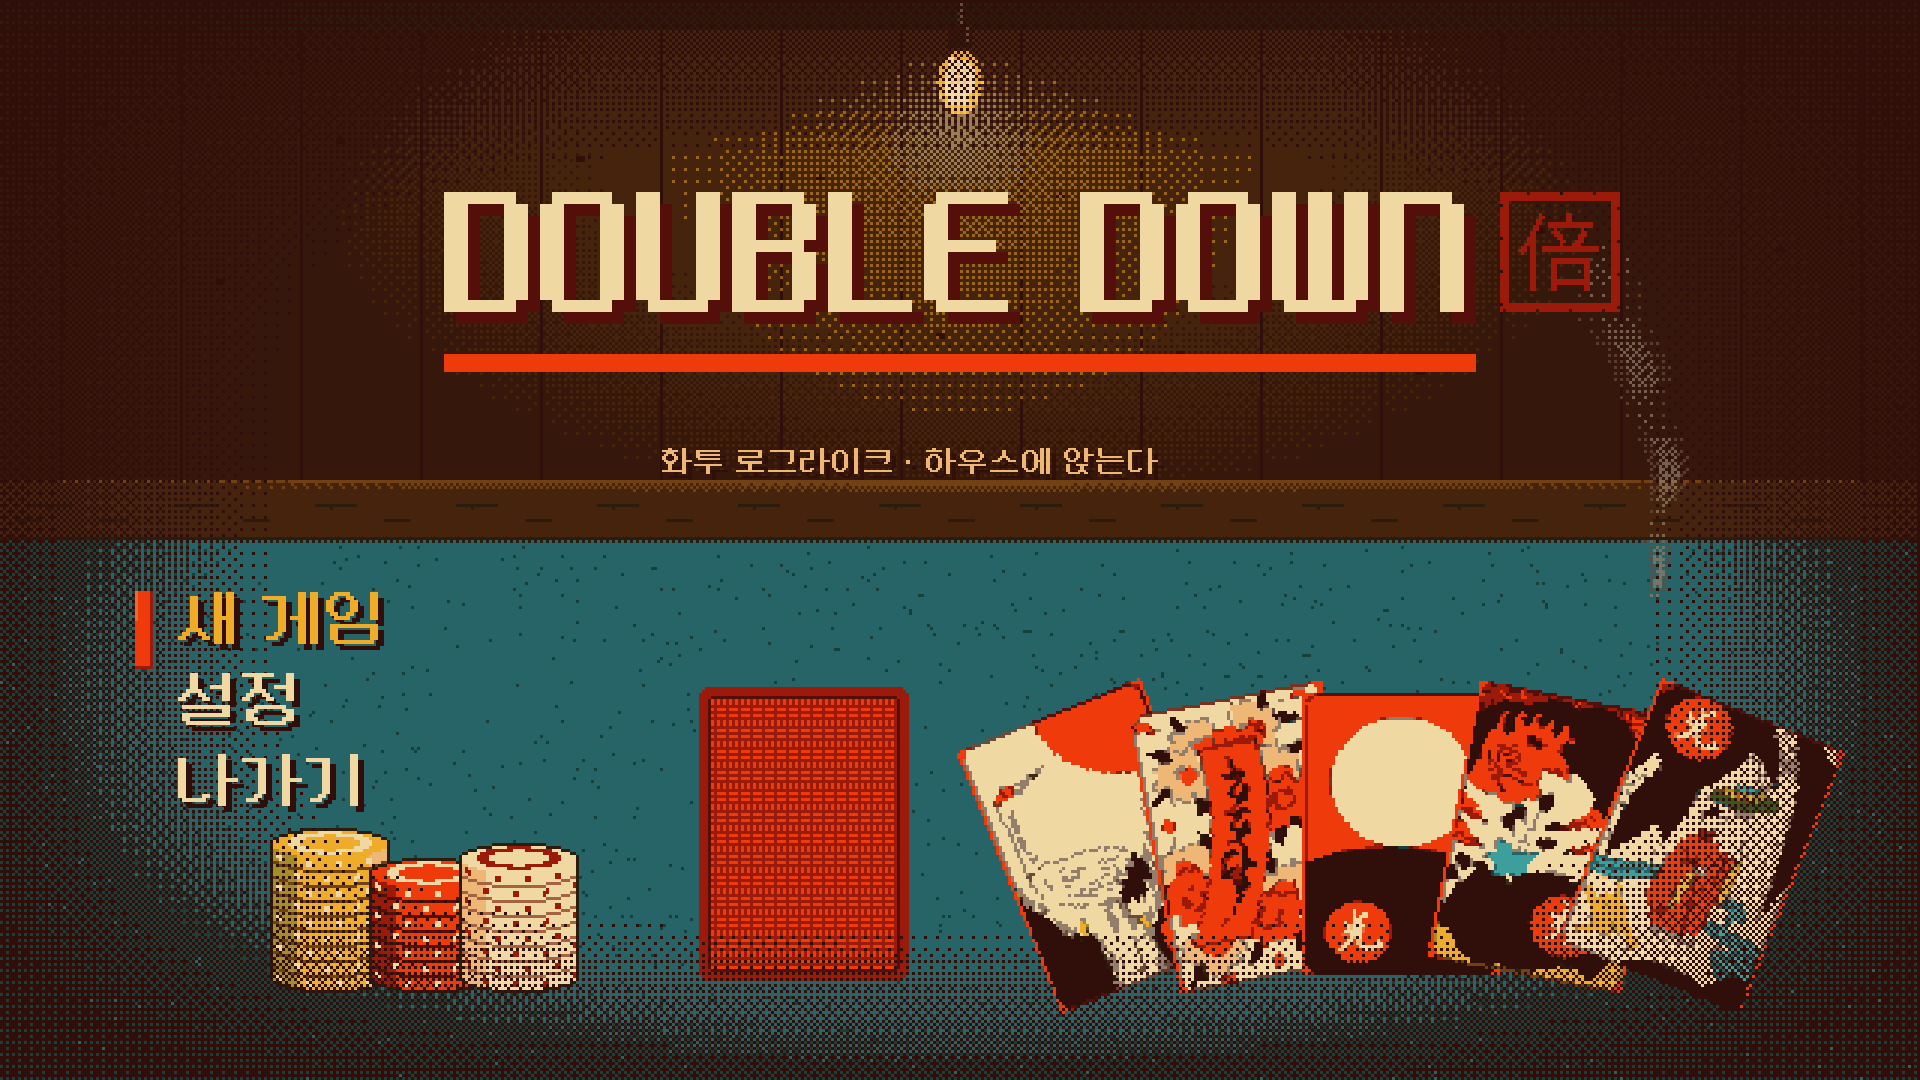
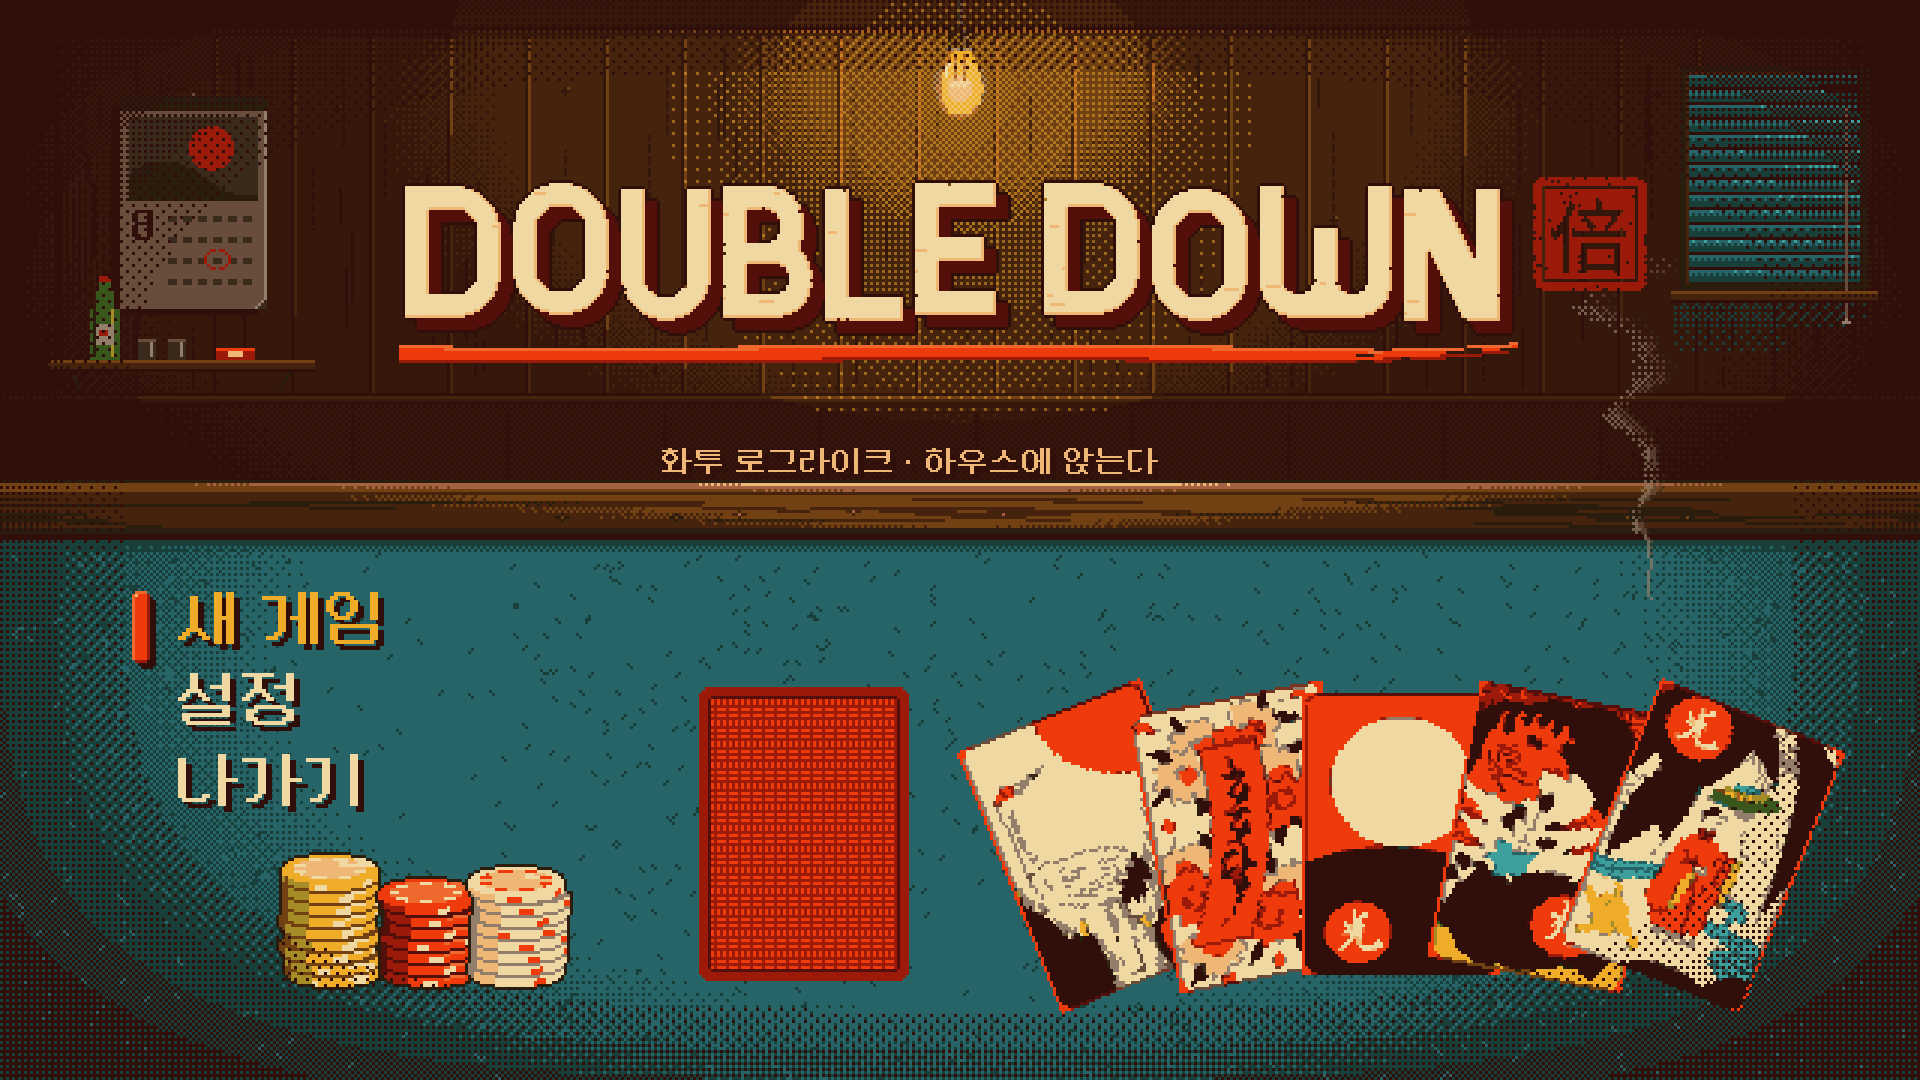
문서: double-down-title-scene-research §11을 완성 그림으로 고친다
- 타이틀 그림 13장을 에이전트가 완성 그림으로 다시 그려, §11의 레이어·화면 자리·그림 설명을 그 파일에 맞춘다
- "그림은 사용자가 직접 찍는다"와 단색 자리채움 문장을 바뀐 결정에 맞춰 고친다
- 합성 그림을 밑그림 판에서 완성 판으로 바꾼다

Changed region(s): [[0.0, 0.3056, 1.0, 1.0], [0.1875, 0.0, 0.9688, 0.3972], [0.0312, 0.0917, 0.1562, 0.3361]]

diff --git a/reports/double-down-title-scene-research.md b/reports/double-down-title-scene-research.md
@@ -108,7 +108,7 @@ Hades·Dead Cells는 검색에서 타이틀 설명을 확인하지 못해 표에
 
 ## 7. 결정해 주실 것
 
-1. 방향: **시안 A로 결정(2026-10-24).** 그림은 사용자가 Aseprite로 직접 찍는다. C는 보류. 레퍼런스는 §10이다.
+1. 방향: **시안 A로 결정(2026-10-24).** 그림은 2026-11-06부터 에이전트가 그린다(§11). C는 보류. 레퍼런스는 §10이다.
 2. 로고: 시안 B ①·②·③ 중 하나. 글자 하나를 사물(칩·광·도장)로 바꿀지.
 3. 소리: 테마 곡을 어디서 구할지(직접·외주·라이선스). 이것이 없으면 화면만 고쳐도 "잘 만든" 느낌이 반만 난다.
 4. 느낌표: `DOUBLE DOWN!`의 `!`를 뗄지.
@@ -116,9 +116,8 @@ Hades·Dead Cells는 검색에서 타이틀 설명을 확인하지 못해 표에
 
 ## 8. 다음 단계
 
-그림은 사용자가 §9 명세와 §10 보드를 보고 찍는다. Ava는 같은 치수의 단색 자리채움을 먼저 만들어 씬을 라이브 에디터 명령으로 굽고, 그림이 오면 같은 이름으로 덮는다. 모션·피드백은 Ava 코드, 시험은 Sonny다.
-소리는 자산이 먼저라 별도 트랙이다.
-그림을 찍을 시작 파일 13개는 §11에 있다(2026-11-06).
+그림 13장은 §11에 있다(2026-11-06). 파일을 `Assets/Arts/Sprites/Title/`로 옮긴 뒤 Ava가 그 그림으로 씬을 라이브 에디터 명령으로 굽는다.
+모션·피드백은 Ava 코드, 시험은 Sonny다. 소리는 자산이 먼저라 별도 트랙이다.
 
 ## 9. 이미지 자산 명세 (시안 A 기준, 2026-10-24)
 
@@ -163,7 +162,7 @@ Hades·Dead Cells는 검색에서 타이틀 설명을 확인하지 못해 표에
 - 파일은 `Assets/Arts/Sprites/Title/`에 둔다. `.aseprite` 원본은 사용자가 커밋한다(아트 커밋 경계 메모).
 - 임포트는 Point 필터, 압축 없음, PPU는 기존 화투와 같게. 배율이 섞이면 가장자리가 뭉개진다.
 - 층 순서는 아래부터 방 → 테이블 → 뒷면 더미 → 칩 → 화투 부채 → 빛무리 → 연기 → 비네트 → 로고 → 메뉴다.
-- 자리를 먼저 보려면 Ava가 팔레트 색 단색 자리채움(같은 치수)을 코드로 만들어 씬에 꽂을 수 있다. 그림이 오면 같은 이름으로 덮는다.
+- 그림 13장이 이미 있으므로(§11) 단색 자리채움 없이 바로 씬을 굽는다.
 - 소리는 그림과 별도 트랙이다. 테마 1곡, 호버·확정 효과음 2개.
 
 ## 10. 레퍼런스 보드 (시안 A, 2026-10-24)
@@ -218,51 +217,51 @@ Hades·Dead Cells는 검색에서 타이틀 설명을 확인하지 못해 표에
 
 시안 A 목업 위에 §9 자산 번호를 달았다. 위 55%는 방, 아래 45%는 테이블이다.
 
-## 11. 제작 시작 파일 (2026-11-06)
+## 11. 타이틀 그림 13장 (2026-11-06)
 
-§9의 필수 7종과 권장 4종의 시작 파일을 만들었다. 칩 더미가 3장이라 파일은 13개다.
+§9의 필수 7종과 권장 4종을 그렸다. 칩 더미가 3장이라 파일은 13개다.
+그림은 사용자 지시로 에이전트가 그렸다. 같은 날 "그림은 사용자가 직접 찍는다"에서 결정이 바뀌었다.
 위치는 Double Down `Assets/Arts/Sprites/Title/Guides~/`이다. 폴더 이름이 `~`로 끝나 Unity가 임포트하지 않는다.
 모든 파일은 Indexed 모드에 24색 팔레트(카드 파일과 같은 순서)이고 투명 인덱스는 0이다.
-레이어마다 밑그림이 들어 있고, 맨 위 `Guide` 레이어는 숨겨 둔다.
+0번 `#1f240a`는 투명으로 쓰이므로 그림에 쓰지 않았다. 맨 위 `Guide` 레이어는 숨겨 두었다.
+생성 스크립트는 같은 폴더의 `_generator/art.py`다.
 
-![시작 파일 합성](assets/title-start-files-preview.png)
+![타이틀 그림 합성](assets/title-start-files-preview.png)
 
 13개 파일을 아래 표의 화면 자리에 얹은 ×3 합성이다. 화투와 뒷면은 기존 스프라이트이고, 메뉴와 부제는 폰트다.
 빛무리는 알파 50%, 연기는 70%로 얹었다.
 
 ### 11-1. 파일별 규격
 
-화면 자리는 640×360 원본 캔버스 기준의 왼쪽 위 좌표다.
+화면 자리는 640×360 원본 캔버스 기준의 왼쪽 위 좌표다. 빛은 화면 위 가운데 전구 하나에서 온다.
 
-| 파일 | 크기·프레임 | 레이어(아래→위) | 화면 자리 | 칠할 때 볼 것 |
+| 파일 | 크기·프레임 | 레이어(아래→위) | 화면 자리 | 그림 |
 |---|---|---|---|---|
-| `Title_Room` | 640×360 | Wall · WallShade · WallLight · Planks | (0, 0) | y 160 아래는 테이블이 덮는다. 전구는 그리지 않는다 |
-| `Title_Table` | 640×200 | Felt · FeltLight · FeltNap · Rim | (0, 160) | 메뉴 칸(x 40~170, y 30~115)은 결을 줄인다. 좌우 끝 40px는 어두운 펠트만 둔다 |
+| `Title_Room` | 640×360 | Wall · Wood · Props | (0, 0) | 판자벽, 천장 들보, 벽 띠. 소품은 달력·블라인드 창·소주병 선반 셋이다. 전구는 없다 |
+| `Title_Table` | 640×200 | Felt · FeltLight · FeltNap · Rim | (0, 160) | 빛을 받는 나무 레일과 펠트. 메뉴 칸(x 40~170, y 30~115)은 결을 줄였다 |
 | `Title_Lamp` | 24×40, 2프레임 | Cord · Socket · Glass · Filament | (308, 0) | 1프레임이 밝고 2프레임이 어둡다. 전구 중심 (12, 27)이 빛무리 중심이다 |
-| `Title_LampGlow` | 200×200 | GlowWarm · GlowCore | (220, -60) | 디더 밀도로 빛을 낸다. Unity Image 알파 0.5를 기준으로 했다 |
-| `Title_Smoke` | 160×120, 12프레임(0.12초) | Smoke | (470, 82) | 프레임마다 3px 오른다. 12프레임이 한 주기라 이어 붙여도 끊기지 않는다 |
-| `Title_Logo` | 420×100 | Shadow · Letters · Underline | (110, 44) | 밑그림은 픽셀 폰트를 4배 키운 것이다. 폰트가 아니라 그림으로 다시 찍는다 |
-| `Title_LogoStamp` | 48×48, 2프레임 | Seal · Glyph | (496, 60) | 1프레임은 잉크 45%, 2프레임은 찍힌 뒤다 |
-| `Title_ChipStack_Gold` · `Red` · `Cream` | 40×64 | Body · Shade · Inserts · Outline | x 90·123·153, y 268 | 칩 9·7·8개를 캔버스 바닥에 세웠다. 빛이 오른쪽 위에서 와 왼쪽이 그늘이다 |
-| `Title_Cursor` | 12×28 | Bar · Shade | (42, 196) | `Guide`의 4행과 23행이 메뉴 글자의 윗선과 밑선이다 |
-| `Title_SeedNote` | 220×150 | Shadow · Paper · PaperEdge · Ruling | (210, 190) | `Guide` 칸에 시드 입력, 덱 고르기, 버튼이 선다. 칸 안은 비워 둔다 |
-| `Title_Vignette` | 640×360 | Vignette | (0, 0) | `#300f0a` 디더만 쓰고 가운데는 비운다 |
+| `Title_LampGlow` | 200×200 | GlowWarm · GlowCore | (220, -60) | 밀도 고리 다섯 단을 아래로 늘였다. Unity Image 알파 0.5가 기준이다 |
+| `Title_Smoke` | 160×120, 12프레임(0.12초) | Smoke | (470, 82) | 가는 한 줄이 흔들리는 띠로 넓어진다. 12번째 다음이 0번과 같아 루프가 이어진다 |
+| `Title_Logo` | 420×100 | Shadow · Outline · Letters · Ink · Underline | (110, 44) | 도형으로 설계한 글자 10자, 두 번 찍힌 자주 그림자, 마른 붓 밑줄 |
+| `Title_LogoStamp` | 48×48, 2프레임 | Seal | (506, 54) | `倍`를 파낸 음각 도장. 1프레임은 반쯤, 2프레임은 완전히 찍혔다 |
+| `Title_ChipStack_Gold` · `Red` · `Cream` | 40×64 | Body · Inserts · Outline | x 90·123·153, y 268 | 칩 9·7·8개. 테두리 무늬가 원근대로 좁아지고 칩마다 1px 어긋난다 |
+| `Title_Cursor` | 12×28 | Shadow · Bar | (42, 196) | `Guide`의 4행과 23행이 메뉴 글자의 윗선과 밑선이다 |
+| `Title_SeedNote` | 220×150 | Shadow · Paper · Tone · Marks | (210, 190) | 찢긴 윗변, 철 구멍, 접힌 귀, 여백선, 커피 자국. `Guide` 칸 안은 비웠다 |
+| `Title_Vignette` | 640×360 | Vignette | (0, 0) | `#300f0a` 밀도 고리만 쓰고 가운데는 비웠다 |
 
 ### 11-2. 권장안으로 정해 그린 것
 
-결정이 남은 자리는 권장안으로 밑그림을 그렸다. 결정이 바뀌면 그 파일 하나만 고친다.
+결정이 남은 자리는 권장안으로 그렸다. 결정이 바뀌면 그 파일 하나만 고친다.
 
 - 로고는 시안 B ③이다. 크림 글자에 자주 그림자를 두고 빨간 밑줄을 그었다. 느낌표는 뺐다(결정 2·4).
-- 도장 글자는 `倍`(곱)다. "더블"을 사물로 말하는 자리 표시다.
-- 로고 글자 하나를 사물로 바꿀 후보로 O 두 개를 `Title_Logo`의 `Guide`에 표시했다.
+- 도장 글자는 `倍`(곱)다. "더블"을 사물로 말하는 자리 표시다. 로고 글자 하나를 사물로 바꿀지는 열려 있다(결정 2).
 - 펠트는 청록 그대로다. 군용 담요 변형은 만들지 않았다.
 - 전구는 `Title_Lamp` 한 곳에만 그린다. 방 배경에도 그리면 한쪽만 고쳤을 때 어긋난다.
 
-### 11-3. 다 그린 뒤
+### 11-3. 남은 것
 
-파일을 닫고 알리면 크기, 팔레트 밖 색, 레이어를 검사하고 ×3 합성으로 대비를 본다.
-통과한 파일은 `Guides~` 밖 `Assets/Arts/Sprites/Title/`로 옮긴다. 이때 Unity autotick을 끈다(팔레트 메모의 GUID 재발급 사고).
-그다음 §8대로 Ava가 씬을 굽는다.
+- 파일을 `Guides~` 밖 `Assets/Arts/Sprites/Title/`로 옮긴다. 이때 Unity autotick을 끈다(팔레트 메모의 GUID 재발급 사고).
+- `.aseprite` 커밋은 사용자 지시를 따른다(§9-4). 그다음 §8대로 Ava가 씬을 굽는다.
 
 ## 출처
 
